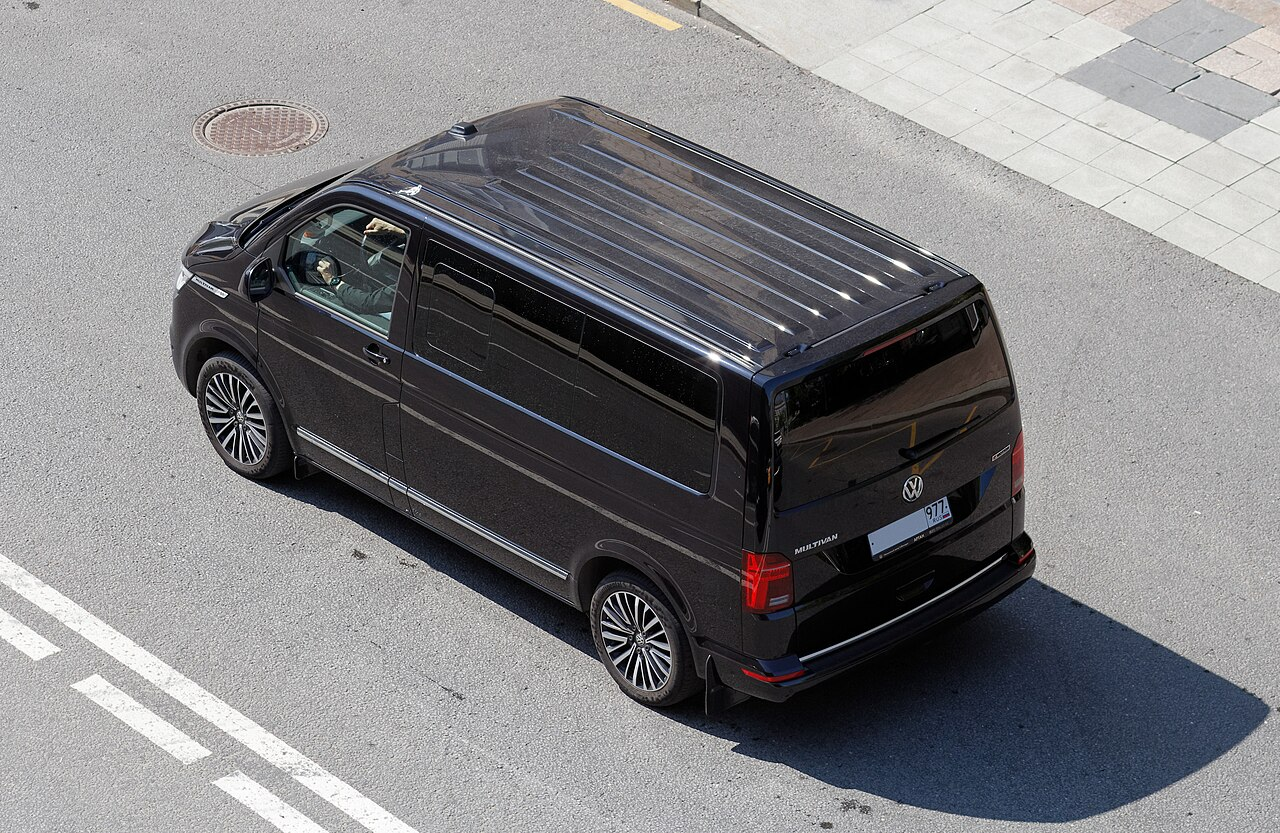
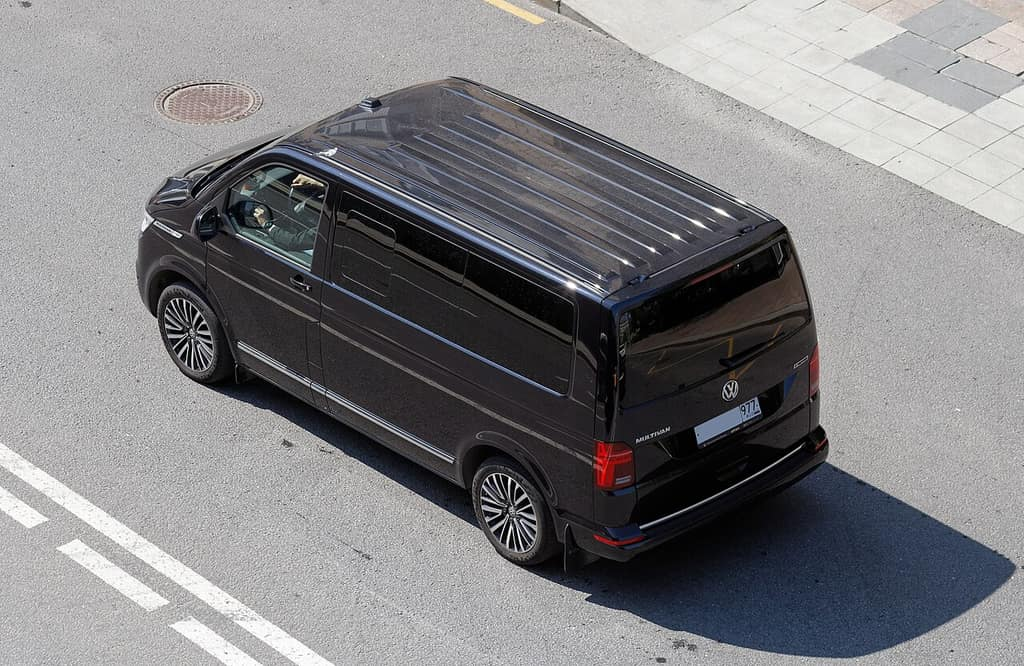
Compress and resize images for faster mobile loading
Images were unoptimized JPEGs (and one PNG photo) totaling 4.4MB.
Resized to max 1024px width and re-encoded at quality 72, cutting
total payload to ~1.3MB — should noticeably reduce lag on mobile
connections.

diff --git a/index.html b/index.html
@@ -453,7 +453,7 @@
   <div class="driver-inner">
     <div class="driver-badge">
       <div class="badge-ring">
-        <img loading="lazy" src="images/img-8-ffc5be8676.png" alt="Savaş VIP Tur'un siyah minivanı">
+        <img loading="lazy" src="images/img-8-ffc5be8676.jpg" alt="Savaş VIP Tur'un siyah minivanı">
       </div>
       <p class="badge-name">SAVAŞ</p>
       <p class="badge-role">Kaptan &amp; Yerel Rehber</p>
@@ -564,7 +564,7 @@
       <p class="placeholder-note">*WhatsApp numarasını ve Instagram kullanıcı adını kendi bilgilerinizle güncelleyin.</p>
     </div>
     <div class="contact-van">
-      <img class="van-svg van-svg--parked" src="images/img-8-ffc5be8676.png" alt="Savaş VIP Tur'un siyah minivanı">
+      <img class="van-svg van-svg--parked" src="images/img-8-ffc5be8676.jpg" alt="Savaş VIP Tur'un siyah minivanı">
       <p class="parked-caption">HAZIR VE BEKLİYOR</p>
     </div>
   </div>
